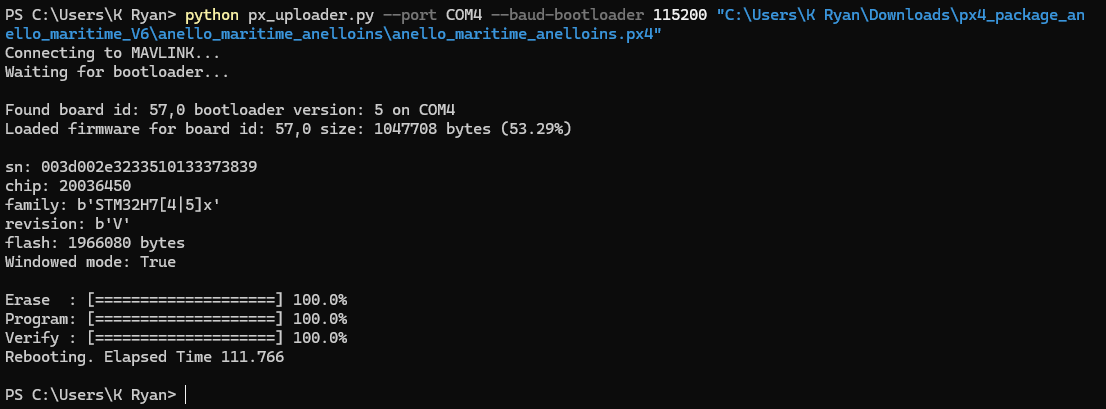
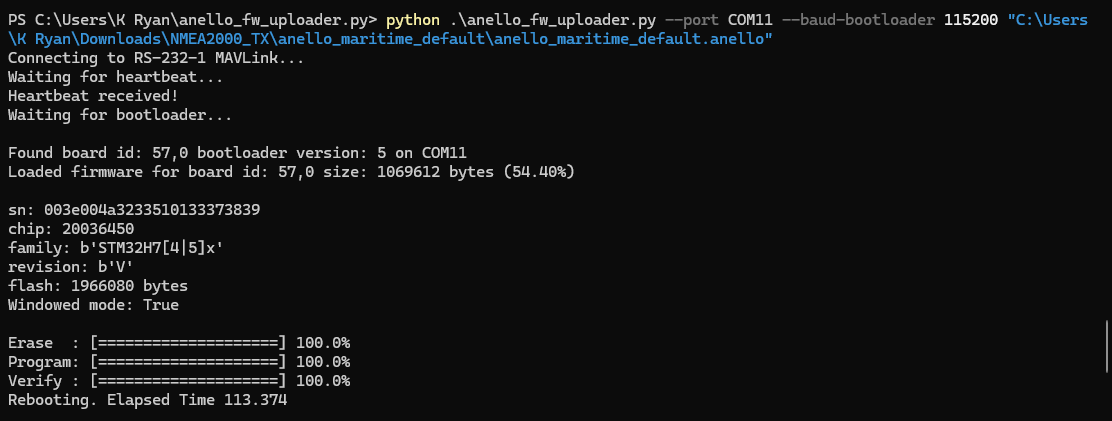
removed px4 references from FW upgrade section

Changed region(s): [[0.0, 0.0, 0.9837, 0.9976], [0.9837, 0.7628, 1.0, 0.8802]]

diff --git a/docs/fw_upgrade.rst b/docs/fw_upgrade.rst
@@ -21,10 +21,10 @@ If you experience any errors during the process, please power cycle the unit and
 .. code-block:: python
     :caption: Terminal
     
-        # cd into folder with px4_uploader.py
-        python px_uploader.py --port COM5 --baud-bootloader 115200 /Users/user1/Downloads/anello_maritime_default.px4
+        # cd into folder with anello_fw_uploader.py
+        python anello_fw_uploader.py --port COM5 --baud-bootloader 115200 /Users/user1/Downloads/anello_maritime_default.anello
         # Change "COM5" to match your port that the Maritime INS is plugged into
-        # Change "/Users/user1/Downloads/anello_maritime_default.px4" to the path to the ANELLO-provided FW image (.px4 file) on your local computer
+        # Change "/Users/user1/Downloads/anello_maritime_default.anello" to the path to the ANELLO-provided FW image (.anello file) on your local computer
 
 8. After it completes, you will see "Rebooting. Elapsed Time x.x" - this means the FW upgrade was successful
 
